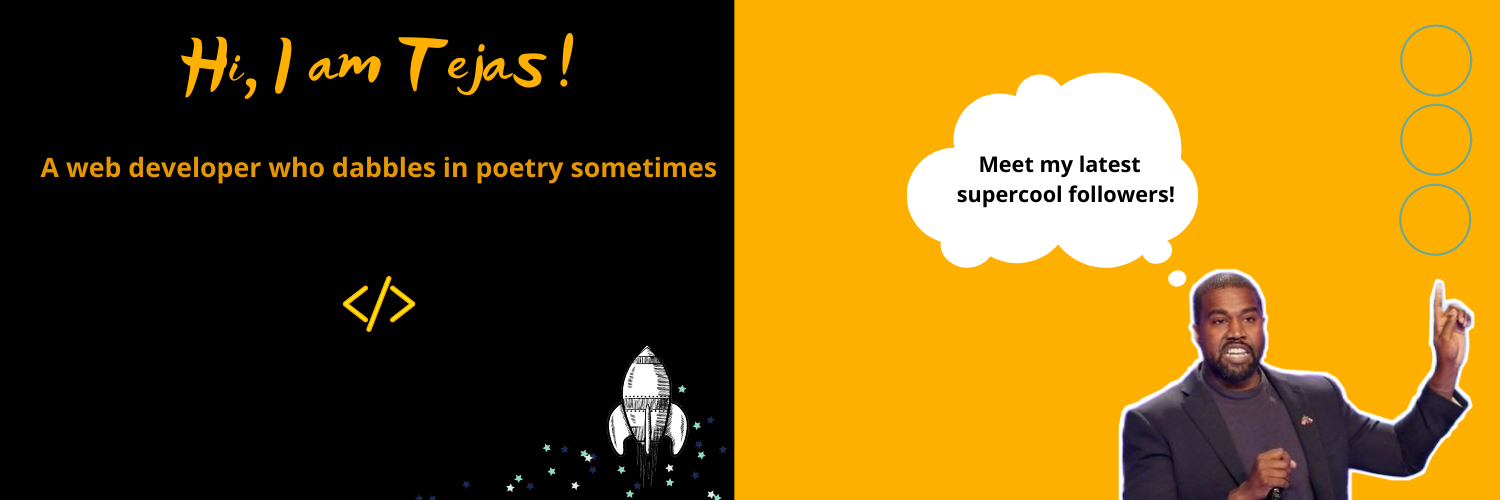
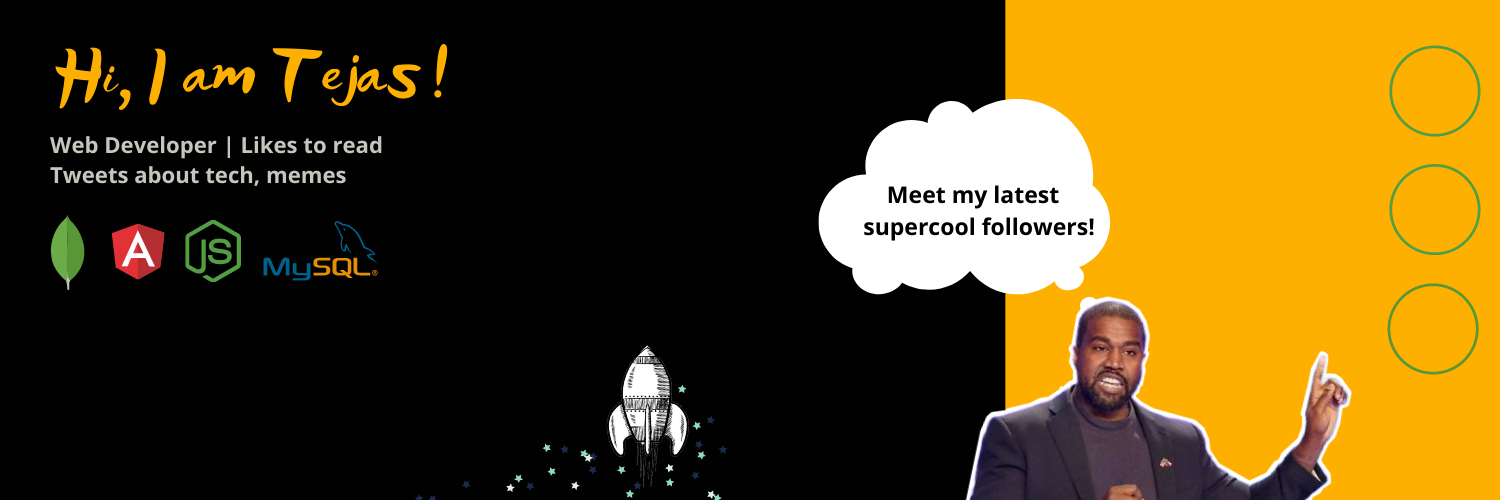
Updated header image and added usernames

diff --git a/index.js b/index.js
@@ -11,11 +11,12 @@ const app = express();
 const port = process.env.PORT;
 
 app.get("/", (_req, res) => res.sendFile(path.join(__dirname, "/index.html")));
-app.listen(port, () => {
+app.listen(port, async() => {
   console.log(`Twitter-header app listening on port ${port}!`);
   setInterval(async () => {
-    await headerServ();
+    await headerMain();
   }, 60000);
+
 });
 const twitterClient = new TwitterClient({
   apiKey: process.env.API_KEY,
@@ -24,9 +25,9 @@ const twitterClient = new TwitterClient({
   accessTokenSecret: process.env.TOKEN_SECRET,
 });
 
-export const headerServ = async () => {
+export const headerMain = async () => {
   try {
-    console.info("Entered [headerServ]");
+    console.info("Entered [headerMain]");
     const followerData = await twitterClient.accountsAndUsers.followersList({
       screen_name: process.env.TWITTER_HANDLE,
       count: 3,
@@ -34,22 +35,23 @@ export const headerServ = async () => {
     const { users = null } = followerData;
     if (users) {
       const images = ["./assets/banner.png"];
+      const usersArr = [];
       for (const user of users) {
         const name = `img-${user.id}.png`;
         const path = `./assets/${name}`;
         const url = user.profile_image_url_https;
         await downloadImages(url, path);
-        images.push(path);
+        usersArr.push(user.screen_name.trim().substring(0,15));
+        images.push(path);1
       }
-      await concatenateImages(images);
+      await concatenateImages(images, usersArr);
       console.log("Image Uploaded Successfully!");
       await deleteImage(images[1]);
       await deleteImage(images[2]);
       await deleteImage(images[3]);
     }
   } catch (error) {
-    console.error(`[headerServ] - ${JSON.stringify(error)}`);
-    throw error;
+    console.error(`[headerMain] - ${JSON.stringify(error)}`);
   }
 };
 
@@ -70,7 +72,7 @@ const downloadImages = async (url, path) => {
   }
 };
 
-const concatenateImages = async (images = []) => {
+const concatenateImages = async (images = [], userArr = []) => {
   try {
     console.log(images);
     let jimpArr = [];
@@ -80,11 +82,12 @@ const concatenateImages = async (images = []) => {
     }
     const profileImages = [jimpArr[1], jimpArr[2], jimpArr[3]];
     profileImages.forEach((profile) => {
-      profile.resize(70, 70).circle();
+      profile.resize(90, 90).circle();
     });
-    jimpArr[0].composite(jimpArr[1], 1400, 25);
-    jimpArr[0].composite(jimpArr[2], 1400, 105);
-    jimpArr[0].composite(jimpArr[3], 1400, 185);
+    const font = await Jimp.loadFont(Jimp.FONT_SANS_16_BLACK);
+    jimpArr[0].composite(jimpArr[1], 1390, 45).print(font, 1280, 90, userArr[0]);
+    jimpArr[0].composite(jimpArr[2], 1390, 165).print(font, 1280, 200, userArr[1]);
+    jimpArr[0].composite(jimpArr[3], 1390, 285).print(font, 1280, 330, userArr[2]);
     jimpArr[0].write("./assets/new-banner.png", async () => {
       console.log("New banner downloaded successfully");
       return await uploadImage();

diff --git a/index.html b/index.html
@@ -9,5 +9,8 @@
     <div> An app which dynamically updates twitter banner with my latest three followers. Follow me wait for a minute and see the Magic!</div>
     <div>Check it out at <a href="https://twitter.com/tejastweets_">@tejastweets_</a> </div>
     <div>Github Repo link - <a href="https://github.com/tejasautkar/twitter-banner">Click here</a></div>
+    <div><a href="https://twitter.com/tejastweets_?ref_src=twsrc%5Etfw" class="twitter-follow-button" data-show-count="false">Follow @tejastweets_</a><script async src="https://platform.twitter.com/widgets.js" charset="utf-8"></script></div>
+    <div>If you happen to use this code to build your dynamic banner then please do mention me. I'll retweet!</div>
+    <a href="https://twitter.com/intent/tweet?screen_name=tejastweets_&ref_src=twsrc%5Etfw" class="twitter-mention-button" data-show-count="false">Tweet to @tejastweets_</a><script async src="https://platform.twitter.com/widgets.js" charset="utf-8"></script>
     </script>
 </body></html>
